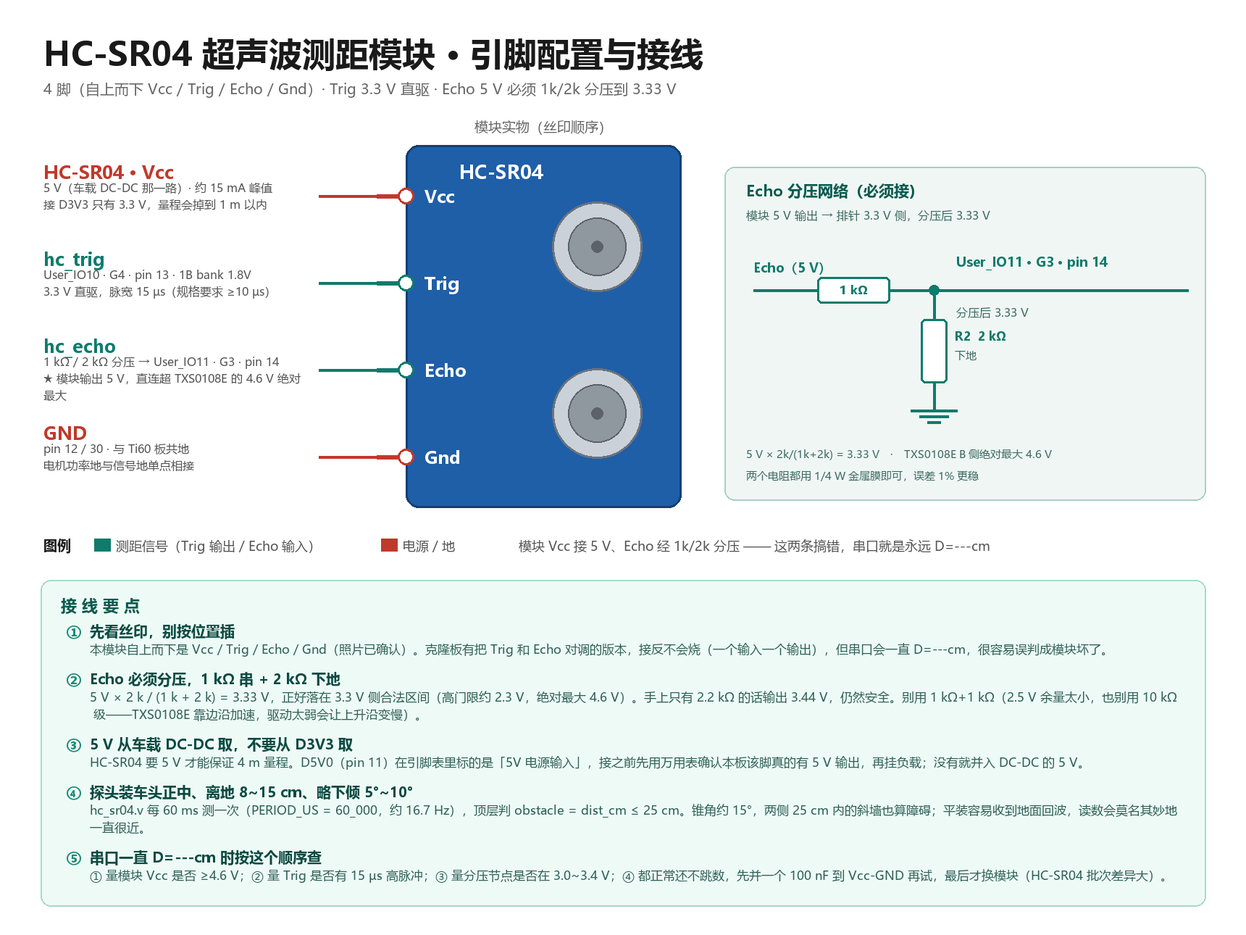
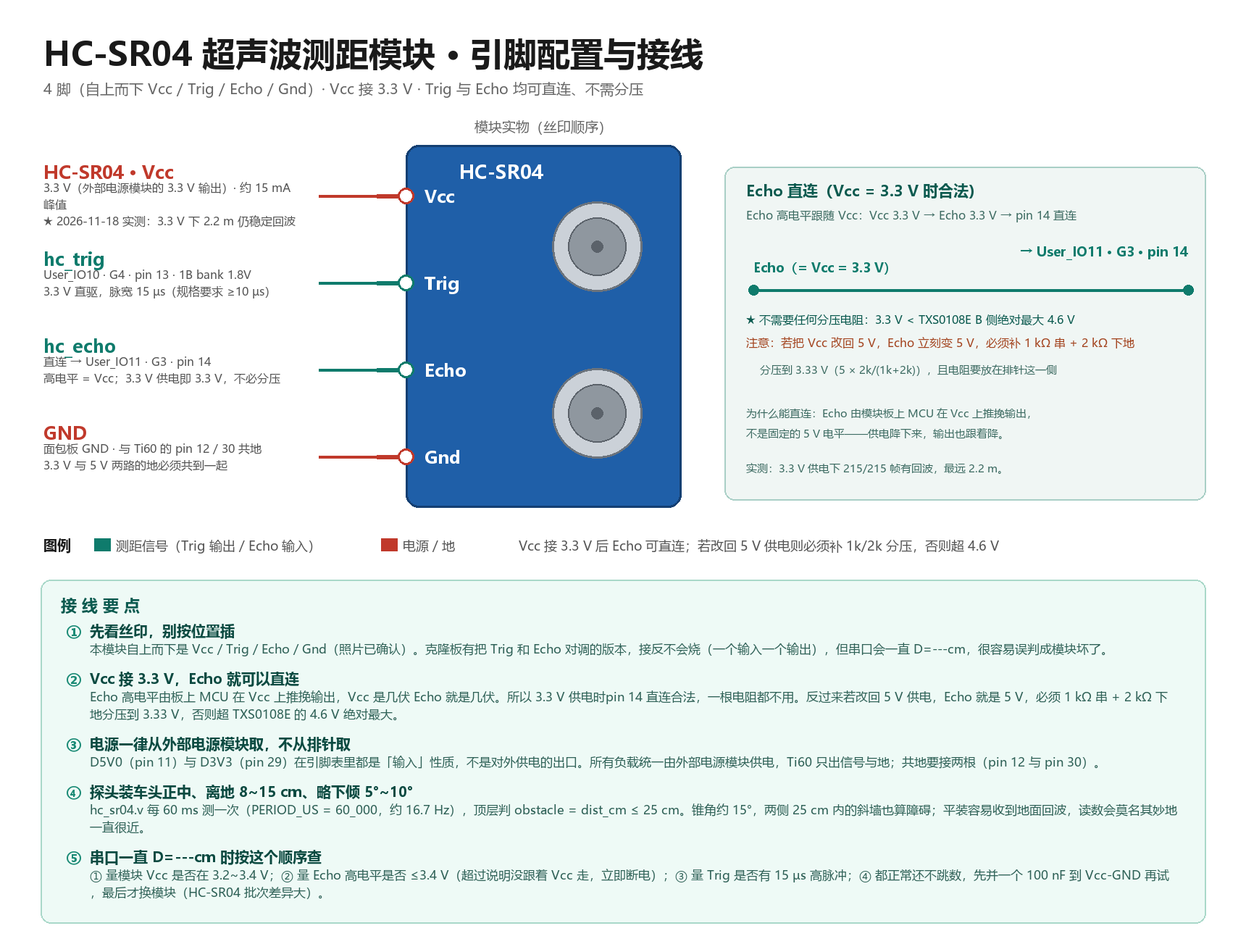
文档：HC-SR04 改 3.3V 供电（Echo 直连），订正量程结论与 pin 11 供电方向
实测确认：3.3V 下 215/215 帧有回波、最远 2.2m，原「3.3V 量程掉到 1m 内」结论作废；Echo 高电平跟随 Vcc，改 3.3V 后可直连 pin 14，不再需要 1k/2k 分压；pin 11 (D5V0) 与 pin 29 (D3V3) 均为输入性质，5V 负载统一由外部电源模块供电。同步更新 PROJECT_PLAN 3.23、模块接线说明 3.5/3.6、引脚分配表与配图脚本。

diff --git a/tools/gen_wiring_diagrams.py b/tools/gen_wiring_diagrams.py
@@ -302,32 +302,33 @@ PIN_YS = [270, 390, 510, 630]
 
 HC_PINS = [
     ("Vcc", "HC-SR04 · Vcc",
-     "5 V（车载 DC-DC 那一路）· 约 15 mA 峰值\n接 D3V3 只有 3.3 V，量程会掉到 1 m 以内", C_POWER),
+     "3.3 V（外部电源模块的 3.3 V 输出）· 约 15 mA 峰值\n★ 2026-11-18 实测：3.3 V 下 2.2 m 仍稳定回波", C_POWER),
     ("Trig", "hc_trig",
      "User_IO10 · G4 · pin 13 · 1B bank 1.8V\n3.3 V 直驱，脉宽 15 µs（规格要求 ≥10 µs）", C_HC),
     ("Echo", "hc_echo",
-     "1 kΩ / 2 kΩ 分压 → User_IO11 · G3 · pin 14\n★ 模块输出 5 V，直连超 TXS0108E 的 4.6 V 绝对最大", C_HC),
+     "直连 → User_IO11 · G3 · pin 14\n高电平 = Vcc；3.3 V 供电即 3.3 V，不必分压", C_HC),
     ("Gnd", "GND",
-     "pin 12 / 30 · 与 Ti60 板共地\n电机功率地与信号地单点相接", C_POWER),
+     "面包板 GND · 与 Ti60 的 pin 12 / 30 共地\n3.3 V 与 5 V 两路的地必须共到一起", C_POWER),
 ]
 
 HC_ITEMS = [
     ("①", "先看丝印，别按位置插",
      "本模块自上而下是 Vcc / Trig / Echo / Gnd（照片已确认）。克隆板有把 Trig 和 Echo 对调的版本，"
      "接反不会烧（一个输入一个输出），但串口会一直 D=---cm，很容易误判成模块坏了。"),
-    ("②", "Echo 必须分压，1 kΩ 串 + 2 kΩ 下地",
-     "5 V × 2 k / (1 k + 2 k) = 3.33 V，正好落在 3.3 V 侧合法区间（高门限约 2.3 V，绝对最大 4.6 V）。"
-     "手上只有 2.2 kΩ 的话输出 3.44 V，仍然安全。别用 1 kΩ+1 kΩ（2.5 V 余量太小，"
-     "也别用 10 kΩ 级——TXS0108E 靠边沿加速，驱动太弱会让上升沿变慢）。"),
-    ("③", "5 V 从车载 DC-DC 取，不要从 D3V3 取",
-     "HC-SR04 要 5 V 才能保证 4 m 量程。D5V0（pin 11）在引脚表里标的是「5V 电源输入」，"
-     "接之前先用万用表确认本板该脚真的有 5 V 输出，再挂负载；没有就并入 DC-DC 的 5 V。"),
+    ("②", "Vcc 接 3.3 V，Echo 就可以直连",
+     "Echo 高电平由板上 MCU 在 Vcc 上推挽输出，Vcc 是几伏 Echo 就是几伏。所以 3.3 V 供电时"
+     "pin 14 直连合法，一根电阻都不用。反过来若改回 5 V 供电，Echo 就是 5 V，"
+     "必须 1 kΩ 串 + 2 kΩ 下地分压到 3.33 V，否则超 TXS0108E 的 4.6 V 绝对最大。"),
+    ("③", "电源一律从外部电源模块取，不从排针取",
+     "D5V0（pin 11）与 D3V3（pin 29）在引脚表里都是「输入」性质，不是对外供电的出口。"
+     "所有负载统一由外部电源模块供电，Ti60 只出信号与地；共地要接两根（pin 12 与 pin 30）。"),
     ("④", "探头装车头正中、离地 8~15 cm、略下倾 5°~10°",
      "hc_sr04.v 每 60 ms 测一次（PERIOD_US = 60_000，约 16.7 Hz），顶层判 obstacle = dist_cm ≤ 25 cm。"
      "锥角约 15°，两侧 25 cm 内的斜墙也算障碍；平装容易收到地面回波，读数会莫名其妙地一直很近。"),
     ("⑤", "串口一直 D=---cm 时按这个顺序查",
-     "① 量模块 Vcc 是否 ≥4.6 V；② 量 Trig 是否有 15 µs 高脉冲；③ 量分压节点是否在 3.0~3.4 V；"
-     "④ 都正常还不跳数，先并一个 100 nF 到 Vcc-GND 再试，最后才换模块（HC-SR04 批次差异大）。"),
+     "① 量模块 Vcc 是否在 3.2~3.4 V；② 量 Echo 高电平是否 ≤3.4 V（超过说明没跟着 Vcc 走，立即断电）；"
+     "③ 量 Trig 是否有 15 µs 高脉冲；④ 都正常还不跳数，先并一个 100 nF 到 Vcc-GND 再试，"
+     "最后才换模块（HC-SR04 批次差异大）。"),
 ]
 
 _probe_img3 = Image.new("RGB", (W, 4000), "white")
@@ -342,7 +343,7 @@ d = ImageDraw.Draw(img)
 
 d.text((MARGIN + 4, 42), "HC-SR04 超声波测距模块 · 引脚配置与接线", font=F(46, True), fill=C_TITLE)
 d.text((MARGIN + 4, 108),
-       "4 脚（自上而下 Vcc / Trig / Echo / Gnd）· Trig 3.3 V 直驱 · Echo 5 V 必须 1k/2k 分压到 3.33 V",
+       "4 脚（自上而下 Vcc / Trig / Echo / Gnd）· Vcc 接 3.3 V · Trig 与 Echo 均可直连、不需分压",
        font=F(20), fill=C_SUB)
 
 # ---- 模块本体 ----
@@ -363,29 +364,23 @@ for i, (sk, net, detail, col) in enumerate(HC_PINS):
     d.text((60, y - 50), net, font=F(25, True), fill=col)
     draw_wrapped(d, (60, y - 22), detail, 16, 356, C_NOTE)
 
-# ---- Echo 分压小电路 ----
+# ---- Echo 直连（3.3 V 供电方案）----
 d.rounded_rectangle((1000, 230, 1664, 690), radius=14, fill="#f0f6f4", outline="#a9cfc6", width=2)
-d.text((1030, 248), "Echo 分压网络（必须接）", font=F(21, True), fill="#0b5a4f")
-d.text((1030, 286), "模块 5 V 输出 → 排针 3.3 V 侧，分压后 3.33 V", font=F(16), fill="#3d6b62")
+d.text((1030, 248), "Echo 直连（Vcc = 3.3 V 时合法）", font=F(21, True), fill="#0b5a4f")
+d.text((1030, 286), "Echo 高电平跟随 Vcc：Vcc 3.3 V → Echo 3.3 V → pin 14 直连", font=F(16), fill="#3d6b62")
 
 WIRE_Y = 400
-d.line((1040, WIRE_Y, 1128, WIRE_Y), fill=C_HC, width=4)
-d.rounded_rectangle((1128, WIRE_Y - 18, 1228, WIRE_Y + 18), radius=6, fill="white", outline=C_HC, width=3)
-d.text((1178, WIRE_Y), "1 kΩ", font=F(16, True), fill=C_HC, anchor="mm")
-d.line((1228, WIRE_Y, 1640, WIRE_Y), fill=C_HC, width=4)
-d.ellipse((1282, WIRE_Y - 7, 1296, WIRE_Y + 7), fill=C_HC)
-d.line((1289, WIRE_Y, 1289, 440), fill=C_HC, width=4)
-d.rounded_rectangle((1271, 440, 1307, 528), radius=6, fill="white", outline=C_HC, width=3)
-d.line((1289, 528, 1289, 566), fill=C_HC, width=4)
-for w, yy in ((64, 566), (40, 574), (18, 582)):
-    d.line((1289 - w // 2, yy, 1289 + w // 2, yy), fill=C_HC, width=4)
-d.text((1318, 452), "R2  2 kΩ", font=F(17, True), fill=C_HC)
-d.text((1318, 480), "下地", font=F(15), fill="#3d6b62")
-d.text((1040, 356), "Echo（5 V）", font=F(18, True), fill=C_HC)
-d.text((1320, 348), "User_IO11 · G3 · pin 14", font=F(18, True), fill=C_HC)
-d.text((1320, 420), "分压后 3.33 V", font=F(16), fill="#3d6b62")
-d.text((1030, 616), "5 V × 2k/(1k+2k) = 3.33 V　·　TXS0108E B 侧绝对最大 4.6 V", font=F(15), fill="#3d6b62")
-d.text((1030, 646), "两个电阻都用 1/4 W 金属膜即可，误差 1% 更稳", font=F(15), fill="#3d6b62")
+d.line((1040, WIRE_Y, 1640, WIRE_Y), fill=C_HC, width=4)
+d.ellipse((1040 - 7, WIRE_Y - 7, 1040 + 7, WIRE_Y + 7), fill=C_HC)
+d.ellipse((1640 - 7, WIRE_Y - 7, 1640 + 7, WIRE_Y + 7), fill=C_HC)
+d.text((1040, 356), "Echo（= Vcc = 3.3 V）", font=F(18, True), fill=C_HC)
+d.text((1640, 334), "→ User_IO11 · G3 · pin 14", font=F(18, True), fill=C_HC, anchor="ra")
+d.text((1030, 430), "★ 不需要任何分压电阻：3.3 V < TXS0108E B 侧绝对最大 4.6 V", font=F(16), fill="#0b5a4f")
+d.text((1030, 462), "注意：若把 Vcc 改回 5 V，Echo 立刻变 5 V，必须补 1 kΩ 串 + 2 kΩ 下地", font=F(16), fill="#a3441f")
+d.text((1030, 500), "　 分压到 3.33 V（5 × 2k/(1k+2k)），且电阻要放在排针这一侧", font=F(15), fill="#3d6b62")
+d.text((1030, 560), "为什么能直连：Echo 由模块板上 MCU 在 Vcc 上推挽输出，", font=F(15), fill="#3d6b62")
+d.text((1030, 588), "不是固定的 5 V 电平——供电降下来，输出也跟着降。", font=F(15), fill="#3d6b62")
+d.text((1030, 636), "实测：3.3 V 供电下 215/215 帧有回波，最远 2.2 m。", font=F(15), fill="#3d6b62")
 
 # ---- 图例 ----
 ly = 738
@@ -395,7 +390,7 @@ d.text((MARGIN + 104, ly + 2), "测距信号（Trig 输出 / Echo 输入）", fo
 d.rectangle((MARGIN + 470, ly + 5, MARGIN + 492, ly + 22), fill=C_POWER)
 d.text((MARGIN + 500, ly + 2), "电源 / 地", font=F(18), fill=C_NOTE)
 d.text((MARGIN + 660, ly + 2),
-       "模块 Vcc 接 5 V、Echo 经 1k/2k 分压 —— 这两条搞错，串口就是永远 D=---cm",
+       "Vcc 接 3.3 V 后 Echo 可直连；若改回 5 V 供电则必须补 1k/2k 分压，否则超 4.6 V",
        font=F(18), fill=C_NOTE)
 
 d.rounded_rectangle((PANEL_X0, _panel_top3, PANEL_X1, H - 40), radius=14,

diff --git a/docs/模块接线说明.md b/docs/模块接线说明.md
@@ -102,7 +102,7 @@ TT 电机额定多为 **3–6 V**，而 VM 是 7.4 V。50 % 占空比平均 3.7 
 
 | # | 丝印 | 本工程接到 | 针号 | User_IO / BGA |
 |---:|---|---|---|---|
-| 1 | `5V` | `D5V0` | pin 11 | — |
+| 1 | `5V` | **外部电源模块 5 V**（★ 不从 `D5V0` / pin 11 取） | — | — |
 | 2 | `GND` | `GND` | pin 12 / 30 | — |
 | 3 | `KEY` | **不接** | — | 板载按钮，与排针同名脚并联 |
 | 4 | `RESET` | **不接** | — | 同上 |
@@ -151,10 +151,10 @@ TT 电机额定多为 **3–6 V**，而 VM 是 7.4 V。50 % 占空比平均 3.7 
 
 | 脚 | 丝印 | 接往 | 说明 |
 |---:|---|---|---|
-| 1 | `Vcc` | **5 V**（车载 DC-DC 那一路） | 约 15 mA 峰值。**不要接 D3V3**：3.3 V 供电时量程掉到 1 m 以内 |
+| 1 | `Vcc` | **3.3 V（外部电源模块的 3.3 V 输出）** | 约 15 mA 峰值。★ 2026-11-18 起改用 3.3 V：Echo 随之变 3.3 V，**pin 14 可直连、不需分压**（见 §3.5） |
 | 2 | `Trig` | `hc_trig` = User_IO10 / G4 / **pin 13** | 3.3 V 直驱即可（模块输入阈值约 2.0 V），脉宽 15 µs（规格 ≥10 µs） |
-| 3 | `Echo` | **1 kΩ 串 + 2 kΩ 下地分压** → `hc_echo` = User_IO11 / G3 / **pin 14** | ⚠ 输出 5 V，必须分压；直连超 TXS0108E B 侧的 4.6 V 绝对最大 |
-| 4 | `Gnd` | GND · **pin 12 / 30** | 与 Ti60 板共地；电机功率地与信号地单点相接 |
+| 3 | `Echo` | **直连** → `hc_echo` = User_IO11 / G3 / **pin 14** | 高电平 = `Vcc`。3.3 V 供电时即 3.3 V，直连合法；**若改回 5 V 供电则必须 1 kΩ 串 + 2 kΩ 下地分压**（5 V 直连超 TXS0108E B 侧 4.6 V 绝对最大） |
+| 4 | `Gnd` | **面包板 GND**（与 Ti60 的 `pin 12` / `pin 30` 共地） | 3.3 V 与 5 V 两路的地必须共到一起；电机功率地与信号地单点相接 |
 
 - **丝印顺序不能靠猜**：本模块（照片已确认）自上而下是 `Vcc / Trig / Echo / Gnd`。
   克隆板有把 Trig 与 Echo 对调的版本 —— 接反不会烧（一入一出），但串口会永远 `D=---cm`。
@@ -162,10 +162,17 @@ TT 电机额定多为 **3–6 V**，而 VM 是 7.4 V。50 % 占空比平均 3.7 
   （高门限约 2.3 V，绝对最大 4.6 V）。手上只有 2.2 kΩ 时输出 3.44 V，仍安全。
   **不要用 1 kΩ + 1 kΩ**（2.5 V，余量太小），**也不要用 10 kΩ 级**（TXS0108E 靠边沿加速，
   驱动太弱会让上升沿变慢，高速信号尤其明显）。
-- **5 V 从哪来**：`D5V0`（pin 11）在引脚表里标的是「5V 电源输入」，**接之前先用万用表
+- **5 V / 3.3 V 从哪来**：一律取**外部电源模块**的输出。`D5V0`（pin 11）与 `D3V3`（pin 29）
+  在引脚表里都是「**输入**」性质，不是给外部模块供电的出口。旧写法「用万用表确认 pin 11 有 5 V 输出」
+  已作废；以下保留原句仅作历史参考：`D5V0`（pin 11）在引脚表里标的是「5V 电源输入」，**接之前先用万用表
   确认本板该脚确实有 5 V 输出**再挂负载；没有就并入车载 DC-DC 的 5 V 那一路。
-- **为什么不能用 3.3 V 供电**：HC-SR04 手册要求 5 V ±10%。3.3 V 时发射功率不足，
-  近距离（<1 m）还能测，远一点就全是 `16'hFFFF`。
+- **为什么改成 3.3 V 供电（2026-11-18 实测决定）**：原接法是 5 V 供电 + Echo 靠 1k/2k 分压，
+  实际没装电阻，5 V 直灌 `pin 14`，超 TXS0108E B 侧绝对最大 4.6 V。改 3.3 V 后 Echo 同源 3.3 V，
+  直连合法、零元件。
+- **量程订正**：`模块接线说明.md` 旧版写「3.3 V 时量程掉到 1 m 以内」，**实测不成立** ——
+  3.3 V 供电下 2.2 m 仍稳定回波（215/215 帧无丢帧）。顶层只用到 25 cm 阈值，量程无论如何都够。
+- **例外**：若换了量程要求更高的用法，正解是买 **HC-SR04P**（原生 3.3 V、约 3 m、直连不分压），
+  而不是把这只模块接回 5 V。
 
 ### 3.2 RTL 侧的关键参数
 
@@ -184,9 +191,12 @@ TT 电机额定多为 **3–6 V**，而 VM 是 7.4 V。50 % 占空比平均 3.7 
 
 1. 串口每 60 ms 一行 `D=xxxcm`；**不接模块时是 `D=---cm`**，接上后用手在探头前晃动，
    数字应随手远近变化。
-2. 一直 `D=---cm` 时按顺序查：① 量模块 `Vcc` 是否 ≥4.6 V；② 用示波器/逻辑分析仪量
-   `Trig` 是否有 15 µs 高脉冲；③ 量分压节点是否在 3.0–3.4 V；④ 都正常仍不跳数，
+2. 一直 `D=---cm` 时按顺序查：① 量模块 `Vcc` 是否在 **3.2–3.4 V**（3.3 V 供电方案）；
+   ② 量 `Echo` 高电平是否 ≤3.4 V（超过说明模块没跟着 `Vcc` 走，立即断电）；
+   ③ 用示波器/逻辑分析仪量 `Trig` 是否有 15 µs 高脉冲；④ 都正常仍不跳数，
    在 `Vcc`–`GND` 间并一个 100 nF 再试，最后才换模块（HC-SR04 批次差异较大）。
+3. **`---` 多不等于故障**：3.3 V 供电时超过约 2 m 就开始丢回波，把手放到 20–30 cm 处
+   应稳定出数 —— 近距离有数、远距离 `---` 是量程边界，不是坏了。
 3. `dist_cm` 恒为一个很小的值（如 2–5 cm）且不随手动变化 → 多半是探头收到了地面回波
    或两侧遮挡物，先调安装角度再怀疑电路。
 
@@ -197,6 +207,43 @@ TT 电机额定多为 **3–6 V**，而 VM 是 7.4 V。50 % 占空比平均 3.7 
 - **平装容易收到地面回波**，读数会莫名其妙地一直很近 —— 这是最常见的「模块坏了」误判。
 - 与 E18-D80NK 红外冗余取「或」：超声波近距有盲区、红外怕强光，两者互补。
 
+### 3.5 从 5 V 改到 3.3 V 的经过（2026-11-18）
+
+**改之前的实际接法**（用户确认）：`Vcc` 接 Ti60 排针 `pin 11`（`D5V0`），`Echo` 不加分压直连
+`pin 14`，`Gnd` 接面包板。三处不合规：
+
+| # | 问题 | 后果 |
+|---|---|---|
+| 1 | Echo 5 V 直连 `pin 14`，超 TXS0108E B 侧 4.6 V | 钳位二极管把多余电压倒灌进板子 3.3 V 轨；脉冲被削顶，测距偏 |
+| 2 | `Vcc` 从 `pin 11` 取电，而该脚是「5V **电源输入**」 | 电流反向穿进板子 5 V 轨，模块开关噪声进 USB 电源 |
+| 3 | 只开 Ti60 时模块断电，X1~X8 仍插着 | B 侧 3.3 V 推挽经模块输入端 ESD 二极管倒灌 → **反向供电**，与电流声现象吻合 |
+
+**改法**：`Vcc` 改接外部电源模块的 **3.3 V**，`Echo` 直连（高电平跟随 `Vcc`），`Gnd` 与 Ti60
+的 `pin 12` / `pin 30` 共地，**两根地线都要接**。
+
+**实测（COM12）**：
+
+| 指标 | 5 V 未分压 | 3.3 V 直连 |
+|---|---|---|
+| 丢帧 | 约 50%（567/1134） | **0**（215/215） |
+| 帧间隔 | 12.41 ms（周期 bug 期） | 约 70 ms |
+| 可测距离 | `006cm` 恒定 / `092` 乱跳 | **182~220 cm**（另有 41~46 cm 一簇） |
+
+读数在两簇间交替属**锥角（约 15°）同时照到两个反射面**的多路径现象，簇内稳定即正常。
+
+### 3.6 循迹八路恒报压线（`T=11111111`）的排查（2026-11-18，未结）
+
+共地补齐后 15 s / 211 帧、另 25 s 观测，`T=` **恒为 `11111111`，一位未翻**，`M=01`。
+
+**关键：`T=` 是极性统一后的结果，不是原始电平。** `FpgaCar.v:630` 接 `line_bits`，
+`track_line.v:93` 为 `line = ACTIVE_HIGH ? trk_stable : ~trk_stable;`（`ACTIVE_HIGH` 默认 0）。
+故 `11111111` = 八路全判「压线」，原始电平全为**低**。
+
+- **排除断电**：模块断电时 X1~X8 悬空，TXS0108E 内部上拉会拉成高，取反后应是 `00000000`。
+  现在全 `1` 说明模块在正常工作，只是「看到的东西全是黑的」。
+- **三种可能**：① 模块正压在深色表面（探头离桌 1~2 cm）；② 阈值电位器拧到极端；③ 接线问题。
+- **验证顺序**：抬离桌面/探头顶白墙看是否变 `00000000` → 量 X1 对 GND（须是稳定 3.3 V 或 0 V，
+  不能是 1.5 V 中间值）→ 看模块电源灯 → 用白纸/黑胶带单独晃 X1，只看 bit0。
 ---
 
 ## 4. 与其它模块的共存检查
@@ -206,7 +253,7 @@ TT 电机额定多为 **3–6 V**，而 VM 是 7.4 V。50 % 占空比平均 3.7 
 | 循迹 8 路 + 电机 7 路 + 编码器 4 路 + OLED 2 路 + 超声 2 路 + 红外 2 路 + K230 4 路 | User_IO2–29 全占，剩余 User_IO30–33 共 4 根 |
 | 两块板共用 GND | 必须共地：TB6612 的 GND（逻辑+功率）与 YB-MUX04 的 GND 都接排针 GND，电池负极也接到同一点 |
 | YB-MUX04 的 SCL/SDA 与 OLED 的 I2C | **不要并联**。OLED 走 User_IO12/13 的 I2C 总线，MUX04 这两脚是本模块自己的 MCU 接口，接一起会互相干扰 |
-| 5 V 供电能力 | YB-MUX04 8 路红外（每路约 10–20 mA）+ 板载 MCU，估计 100–200 mA。`D5V0`（pin 11）在引脚表里标的是「5V 电源输入」—— 接之前先用万用表确认该脚在本板上确实有 5 V 输出，再挂负载 |
-| HC-SR04 的 5 V 与 YB-MUX04 的 5 V | 两者都吃 5 V（超声约 15 mA 峰值 + 循迹 100–200 mA）。同一路 DC-DC 5 V 够用，但**别都从 `D5V0`（pin 11）取** —— 该脚供电能力未知，先用万用表量过再挂 |
+| 5 V 供电能力 | YB-MUX04 8 路红外（每路约 10–20 mA）+ 板载 MCU，估计 100–200 mA。**2026-11-18 定稿：一律由外部电源模块 5 V 供电**，不再从 `D5V0`（pin 11）取 —— 该脚是「5V 电源输入」，不是对外供电口 |
+| 各模块电源来源 | **统一约定：所有负载由外部电源模块供电，Ti60 排针只出信号与地。** HC-SR04 用 3.3 V（约 15 mA）、YB-MUX04 用 5 V（100–200 mA）。`D5V0`（pin 11）与 `D3V3`（pin 29）都是输入性质，不对外供电 |
 | HC-SR04 的分压电阻放哪 | 放在**排针侧**而不是模块侧：模块到电阻之间是 5 V 长线，电阻到排针是 3.3 V。反了会把 5 V 直接灌进 TXS0108E |
 | 超声与红外的判据冲突 | 顶层判据把两者取「或」：距离 ≤25 cm 或有任一路红外触发即算障碍，互不屏蔽。想单独验超声就看串口 `D=`，红外不影响 |

diff --git a/PROJECT_PLAN.md b/PROJECT_PLAN.md
@@ -1980,6 +1980,86 @@ TT 电机额定多为 **3–6 V**，而 VM 是 7.4 V。50% 占空比平均 3.7 V
 3. 若某一路怎么移都不变 → 该路没接好/没供电/探头坏；
 4. 若全部恒 `1` 或恒 `0` → `ACTIVE_HIGH` 极性反了，改参数重编（**不要改接线**）。
 
+## 3.23 供电路径整改：HC-SR04 改 3.3 V 直连（2026-11-18）
+
+### 3.23.1 起因：Echo 5 V 直连 pin 14，超 TXS0108E 绝对最大
+
+用户此前的实际接法（m03342 确认）：HC-SR04 的 `Vcc` 接在 **Ti60 排针 pin 11（`D5V0`）**，
+YB-MUX04 的 `5V` 接外部电源模块，Ti60 的 GND 接面包板 GND，**Echo 未加任何分压电阻**。
+
+三处超规格 / 隐患：
+
+| # | 问题 | 依据 |
+|---|---|---|
+| 1 | **Echo 5 V 直连 `pin 14`**，超 TXS0108E B 侧绝对最大 4.6 V 达 0.4 V | §3.16、`引脚分配表.md:33` |
+| 2 | **`Vcc` 从 `pin 11` 取电**：该脚在引脚表里是「5V **电源输入**」，不是输出，等于让电流反向穿进板子 5 V 轨 | `引脚分配表.md:30` |
+| 3 | **只开 Ti60 时 YB-MUX04 断电，但 X1~X8 仍插在排针上** → TXS0108E 的 B 侧推挽高电平经模块输入端 ESD 钳位二极管倒灌进模块 5 V 轨，形成「反向供电」。这与「只开 Ti60 就有电流声」的现象吻合 | `模块接线说明.md:128` |
+
+### 3.23.2 改法：Vcc 改 3.3 V，Echo 直连合法
+
+`Echo` 由板上 MCU 在 `Vcc` 上推挽输出，高电平电压 = `Vcc`。因此**把 Vcc 改到 3.3 V 之后，
+Echo 也就是 3.3 V，`pin 14` 可直连，不需要任何分压电阻**。
+
+- 3.3 V 取自**外部电源模块的 3.3 V 输出**，不从 Ti60 的 `D3V3`（pin 29）取。
+- 附带修正：用户随后发现 `3.3 V` 的地与 `5 V` 的地**没有共到一起**，补上共地后重测（m03381）。
+
+### 3.23.3 实测结果（COM12 / 115200-8N1，`.scratch/diststats.ps1`、`.scratch/tbitstats.ps1`）
+
+**距离（3.3 V 供电，15~20 s 采样）**
+
+| 指标 | 改之前（5 V，未分压） | 改之后（3.3 V，共地补齐） |
+|---|---|---|
+| 丢帧（`D=---cm`） | 约一半帧（567/1134） | **0 帧**（215/215 有回波） |
+| 非 ASCII 字节 | 偶发 | **0** |
+| 帧间隔 | 12.41 ms（周期 bug 未修时） | **约 70 ms**（60 ms 周期 + 回波测量 + 发报） |
+| 主读数 | `006cm` 恒定 / `092` 乱跳 | **182~220 cm 可达 2.2 m**，另有 41~46 cm 一簇 |
+
+> **订正**：`模块接线说明.md` 原写「3.3 V 供电时量程掉到 1 m 以内」，**实测不成立**。
+> 3.3 V 下 2.2 m 仍稳定收到回波。原因推测：该模块板载升压，或该批次发射效率高于标称。
+> 因为顶层只用到 `OBSTACLE_CM = 16'd25`（`FpgaCar.v:280`），量程无论如何都够。
+
+读数为两簇（41~46 cm 与 182~220 cm）交替，属**锥角（约 15°）同时照到两个反射面**的正常多路径
+现象，簇内稳定（`043/042/041` 连续、`219/220` 连续），不是乱跳。判「准不准」需人把物体放在
+已知距离（如 20 cm）正前方再读。
+
+### 3.23.4 循迹 `T=` 八位恒为 `11111111`（待硬件定性）
+
+共地补齐后 15 s / 211 帧、另 25 s 观测，**`T=` 恒为 `11111111`，25 s 内一位未翻**，`M=01`（RUN）。
+
+**先纠正一个易误读点**：串口打印的 `T=` 不是原始电平，而是**极性统一之后**的结果 ——
+`FpgaCar.v:630` 接的是 `line_bits`（`track_line` 的 `line` 输出），而 `track_line.v:93` 为
+`line = ACTIVE_HIGH ? trk_stable : ~trk_stable;`，`ACTIVE_HIGH` 取默认 `0`。
+所以 `T=11111111` = **八路全部判定「压线」**，对应原始电平全为**低**。
+
+注意这**推翻了 §3.22.2 的推断**：当时观察到 `10000001`（两侧报压线），现在变成八路全报压线，
+说明那两根线的异常只是当时的状态，现在的问题变成了整体性误判。
+
+排除法：**不是断电**。模块断电时 X1~X8 悬空，TXS0108E 内部上拉会把它们拉成高电平，
+经取反后 `T=` 应为 `00000000`；现在全 `1` 反而说明模块在正常工作，只是「看到的东西全是黑的」。
+
+三种可能，按概率排：
+
+1. **模块正压在深色表面上** —— 探头离桌面仅 1~2 cm，桌面深色即八路全判黑。最易验证：把模块悬空、
+   探头顶白墙，看 `T=` 是否变 `00000000`。
+2. **阈值电位器拧到极端** —— 八路板上的可调电阻拧到头会让比较器恒输出同一结果，八路一起翻。
+3. **接线顺序或接触问题** —— 但八路同时出同样的问题概率低。
+
+**判定步骤**（需人配合）：
+
+1. 抬起模块悬空 / 探头顶白墙 → `T=` 应变 `00000000`；
+2. 量 **X1 对 GND**：应是稳定的 3.3 V 或接近 0 V，**不能是 1.5 V 之类中间值**（中间值=比较器抖动或无供电）；
+3. 看模块板上的**电源指示灯**是否亮（亮 = 5 V 与地到位）；
+4. 用白纸/黑色绝缘胶带单独只晃 **X1**，只看 `T=` 最右一位（bit0）是否翻转，逐路重复。
+
+### 3.23.5 硬件侧结论：5 V 负载一律不挂 Ti60 排针
+
+- 所有 5 V 负载（HC-SR04 → 现在改 3.3 V、YB-MUX04 100~200 mA、以后的 K230）**统一由外部电源模块供电**，
+  Ti60 只提供逻辑电平与地，一块负载都不从排针取电。
+- **共地要接两根**（`pin 12` 与 `pin 30`）：循迹模块 100~200 mA 的回流全走这根线，单根杜邦线的
+  接触电阻会让地电位浮动。
+- 面包板电源轨中间通常是断开的，上下两半要用短接线桥接。
+- `D5V0`（pin 11）与 `D3V3`（pin 29）都是「输入」性质，**不作为对外供电口使用**。
+- 若将来需要 5 V 版超声的长量程，正解是换 **HC-SR04P**（原生 3.3 V、输出 3.3 V、约 3 m 量程，直连不分压）。
 ## 4. 下一步（2026-11-10 按实际到货情况重排）
 
 ### 第 1 步：现在就能做的上板验证（不需要任何待买硬件）

diff --git a/docs/引脚分配表.md b/docs/引脚分配表.md
@@ -27,10 +27,10 @@
 | 8 | User_IO7 | K4 GPIOL_P_05 | 1A | `track[5]` | YB-MUX04 OUT6 |
 | 9 | User_IO8 | H4 GPIOL_N_04 | 1A | `track[6]` | YB-MUX04 OUT7 |
 | 10 | User_IO9 | H5 GPIOL_P_04 | 1A | `track[7]` | YB-MUX04 OUT8 |
-| **11** | — | — | — | **D5V0** | 5V 电源输入 |
+| **11** | — | — | — | **D5V0** | 5V **电源输入**（输入性质，**不作对外供电口**；模块 5 V 一律取外部电源模块） |
 | **12** | — | — | — | **GND** | 地 |
 | 13 | User_IO10 | G4 GPIOL_N_12 | 1B | `hc_trig` | HC-SR04 Trig |
-| 14 | User_IO11 | G3 GPIOL_P_12 | 1B | `hc_echo` | HC-SR04 Echo ⚠ 5V，**1kΩ 串 + 2kΩ 下地** 分压到 3.33V（见 [模块接线说明.md](模块接线说明.md) §3） |
+| 14 | User_IO11 | G3 GPIOL_P_12 | 1B | `hc_echo` | HC-SR04 Echo，高电平 = 模块 `Vcc`。**2026-11-18 起模块改 3.3 V 供电 → 直连，不分压**；若改回 5 V 供电必须 1kΩ 串 + 2kΩ 下地（见 [模块接线说明.md](模块接线说明.md) §3.5） |
 | 15 | User_IO12 | E3 GPIOL_N_13 | 1B | `i2c_scl` | OLED / 共用总线 SCL（外部 4.7k 上拉） |
 | 16 | User_IO13 | F3 GPIOL_P_13 | 1B | `i2c_sda` | OLED / 共用总线 SDA（inout，外部 4.7k） |
 | 17 | User_IO14 | G2 GPIOL_N_10 | 1B | `enc_la` | 左轮编码器 A |
@@ -45,7 +45,7 @@
 | 26 | User_IO23 | H1 GPIOL_P_09 | 1B | `mr_pwm` | TB6612 PWMB（20 kHz） |
 | 27 | User_IO24 | F2 GPIOL_N_14 | 1B | `motor_stby` | TB6612 STBY（0=待机，安全默认） |
 | 28 | User_IO25 | F1 GPIOL_P_14 | 1B | `k230_d[0]` | K230 GPIO42（12pin 针 1） |
-| **29** | — | — | — | **D3V3** | 3.3V 电源 |
+| **29** | — | — | — | **D3V3** | 3.3V 电源（输入性质；OLED、TB6612 逻辑电源这类毫安级负载可借用，**模块级负载不从此取**） |
 | **30** | — | — | — | **GND** | 地 |
 | 31 | User_IO26 | E2 GPIOL_N_15 | 1B | `ir_l` | E18-D80NK 左（NPN 低有效）⚠ 开集空闲 5V 高，须弃内部上拉 + 外部 10K 上拉 D3V3 + 1K/1.2K 分压到约 1.8V |
 | 32 | User_IO27 | E1 GPIOL_P_15 | 1B | `ir_r` | E18-D80NK 右（同上） |
